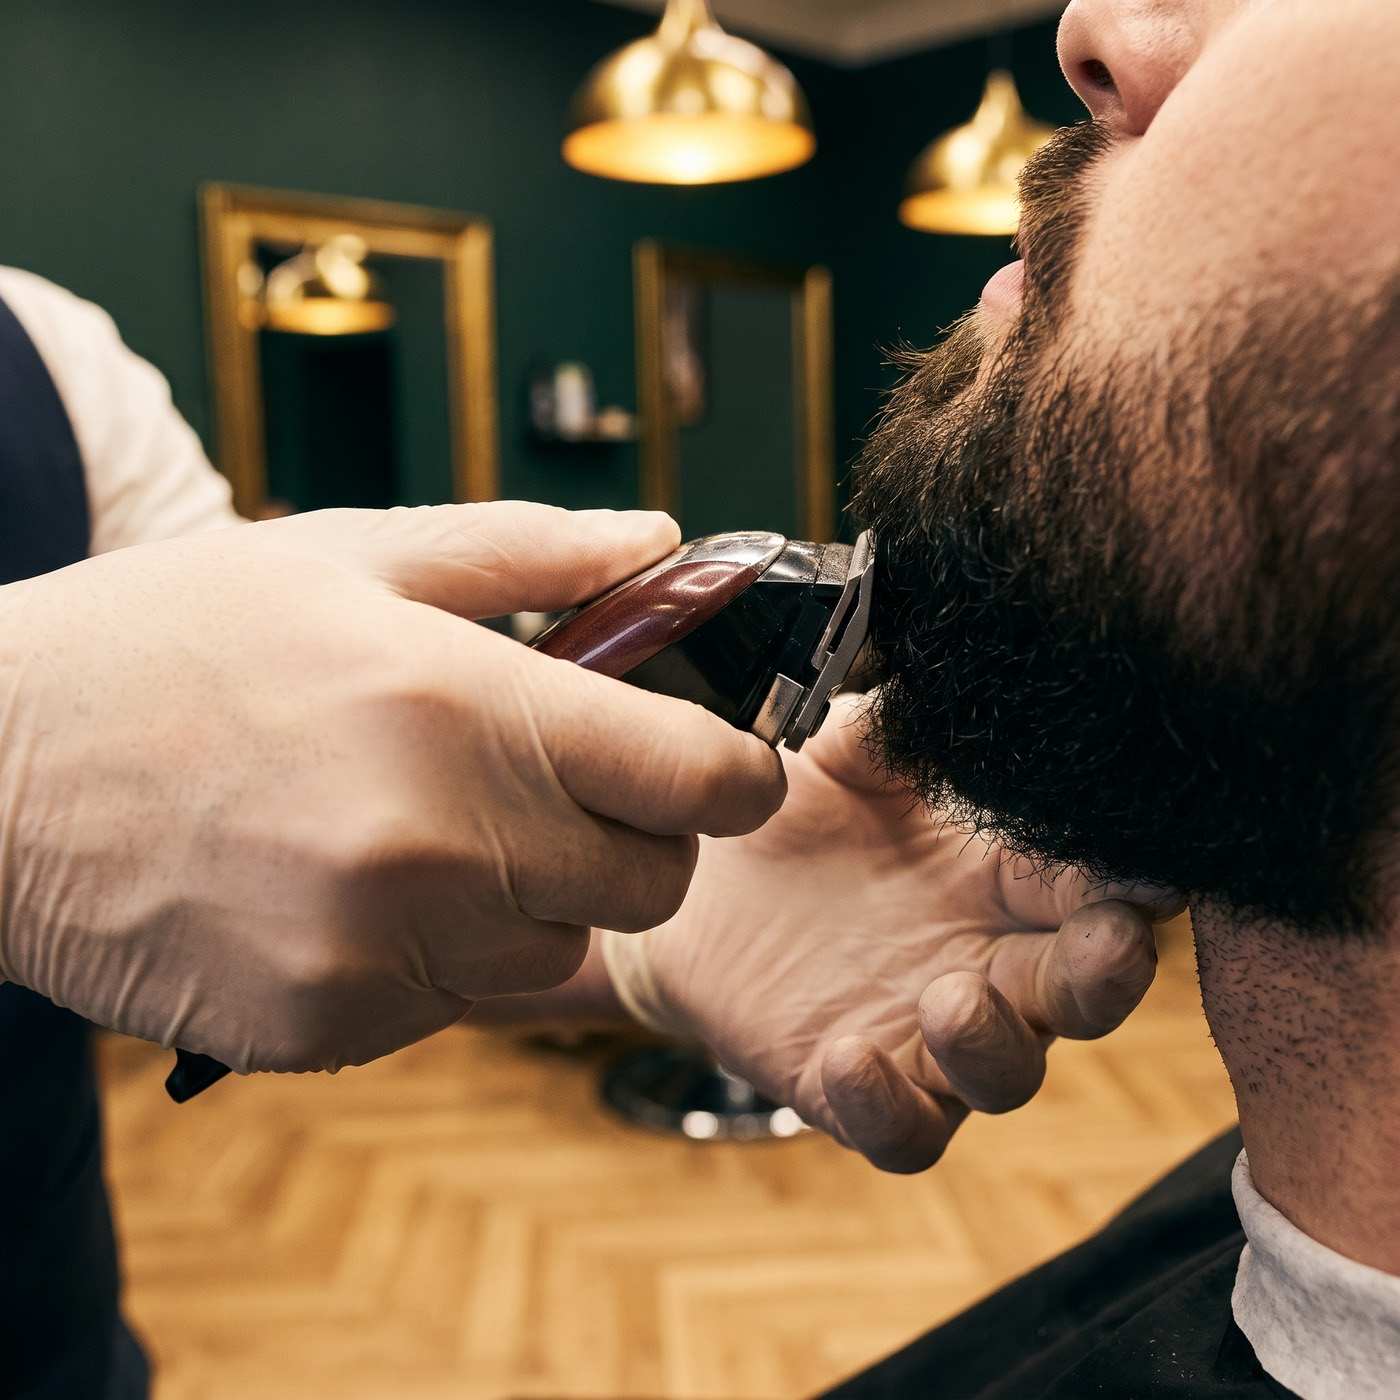
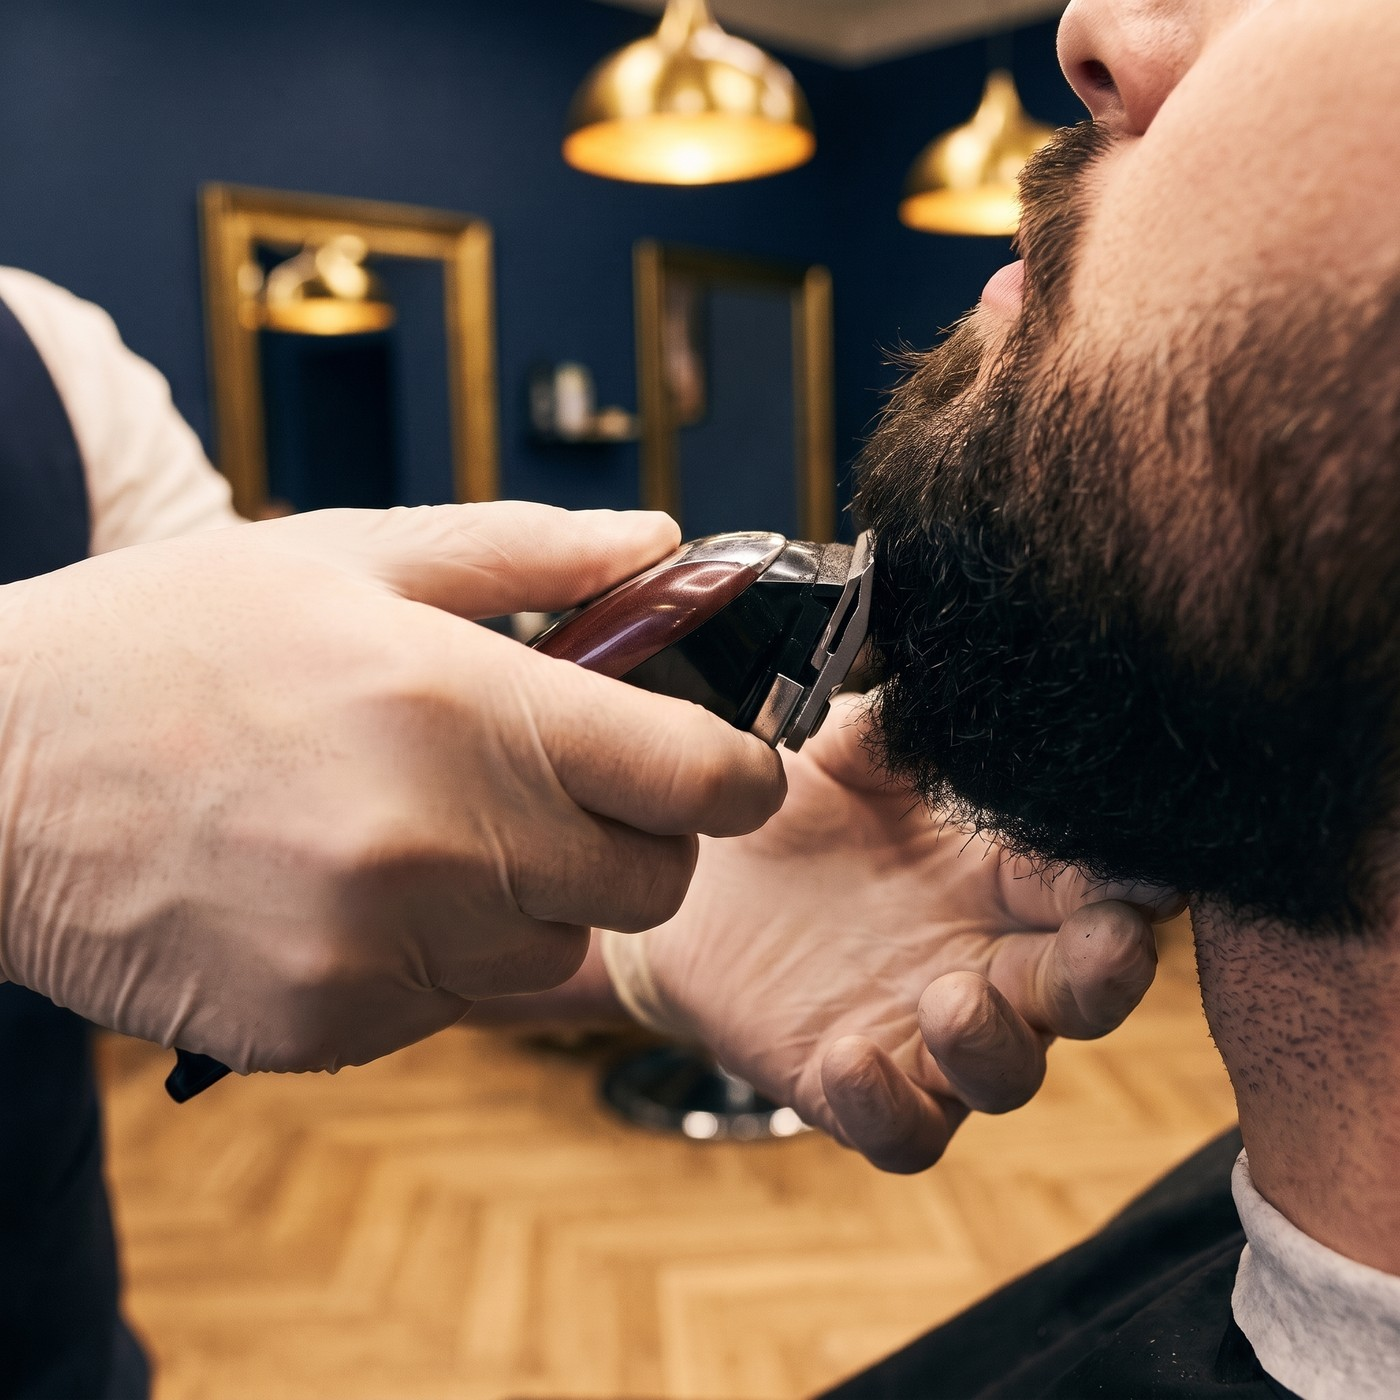
Linea 9: navy statt gruen, Menue am Handy zweizeilig

diff --git a/index.html b/index.html
@@ -44,7 +44,7 @@
   --ink:#F1ECE2; --muted:#ABA393;
   --acc:#C8A15A; --acc-deep:#B48C45; --on-acc:#121110; --acc-text:#D0AB64;
   --led:#E8CF97; --glow:rgba(200,161,90,.5);
-  --band:#1F3A2E; --band-ink:#F1ECE2; --band-line:rgba(241,236,226,.28); --band-honey:rgba(241,236,226,.07);
+  --band:#16264A; --band-ink:#F1ECE2; --band-line:rgba(241,236,226,.28); --band-honey:rgba(241,236,226,.07);
   --paper:#EFE9DD; --paper-card:#F8F4EC; --paper-ink:#17150F; --paper-muted:#5B5345; --paper-line:#D3C9B6; --paper-acc:#77571B; --paper-focus:#17150F;
   --honey:rgba(200,161,90,.16);
   --focus:#F1ECE2;
@@ -54,9 +54,9 @@
   --stage-acc:#C8A15A; --stage-acc-deep:#B48C45; --stage-on-acc:#121110;
   --stage-led:#FFF1D6; --stage-glow:rgba(255,196,110,.7);
   
-  --sw-messing-a:#C8A15A;--sw-messing-b:#1F3A2E;--sw-messing-c:#121110;
-  --sw-gruen-a:#8DBB9A;--sw-gruen-b:#2B2417;--sw-gruen-c:#121110;
-  --sw-kupfer-a:#D29467;--sw-kupfer-b:#1E2F2A;--sw-kupfer-c:#121110;
+  --sw-messing-a:#C8A15A;--sw-messing-b:#16264A;--sw-messing-c:#121110;
+  --sw-gruen-a:#8FB0DD;--sw-gruen-b:#1A2742;--sw-gruen-c:#121110;
+  --sw-kupfer-a:#D29467;--sw-kupfer-b:#14223F;--sw-kupfer-c:#121110;
   --sw-sw-a:#ECEEEF;--sw-sw-b:#8D8D93;--sw-sw-c:#111112;
 }
 :root[data-farbe="light"]{
@@ -65,7 +65,7 @@
   --ink:#16140F; --muted:#574F42;
   --acc:#8A6626; --acc-deep:#74541C; --on-acc:#FFFFFF; --acc-text:#6E5018;
   --led:#8A6626; --glow:rgba(138,102,38,.28);
-  --band:#1F3A2E; --band-ink:#F1ECE2; --band-line:rgba(241,236,226,.28);
+  --band:#16264A; --band-ink:#F1ECE2; --band-line:rgba(241,236,226,.28);
   --paper:#1C1A16; --paper-card:#25221D; --paper-ink:#F1ECE2; --paper-muted:#B2AA9A; --paper-line:#3D3830; --paper-acc:#D3AE68; --paper-focus:#F1ECE2;
   --honey:rgba(138,102,38,.16);
   --focus:#16140F;
@@ -81,25 +81,25 @@
 }
 
 :root[data-gamma="gruen"]{
-  --stage-acc:#8DBB9A;--stage-acc-deep:#77A685;--stage-on-acc:#101612;--stage-led:#E4F6EA;--stage-glow:rgba(150,220,175,.6);
-  --band:#2B2417;
+  --stage-acc:#8FB0DD;--stage-acc-deep:#7898C6;--stage-on-acc:#0F1420;--stage-led:#E4EEFA;--stage-glow:rgba(150,185,235,.6);
+  --band:#1A2742;
 }
 :root[data-gamma="gruen"]:not([data-farbe="light"]){
-  --bg:#111312;--bg2:#171A18;--raised:#1F2420;--line:#353D37;--ink:#ECF0EC;--muted:#A0AAA2;
-  --acc:#8DBB9A;--acc-deep:#77A685;--on-acc:#101612;--acc-text:#9CC6A8;--led:#BFE0C8;--glow:rgba(141,187,154,.45);
-  --paper:#E7EEE8;--paper-card:#F4F8F5;--paper-ink:#0F1712;--paper-muted:#48564C;--paper-line:#C4D2C8;--paper-acc:#2C5B40;--paper-focus:#0F1712;
-  --honey:rgba(141,187,154,.14);--focus:#ECF0EC;
+  --bg:#111418;--bg2:#171B20;--raised:#1F252D;--line:#353C47;--ink:#ECF0F5;--muted:#A0A9B5;
+  --acc:#8FB0DD;--acc-deep:#7898C6;--on-acc:#0F1420;--acc-text:#A3BFE6;--led:#C4D6F0;--glow:rgba(143,176,221,.45);
+  --paper:#E7ECF4;--paper-card:#F4F7FB;--paper-ink:#0F1520;--paper-muted:#485264;--paper-line:#C4CEDC;--paper-acc:#2C4B7A;--paper-focus:#0F1520;
+  --honey:rgba(143,176,221,.14);--focus:#ECF0F5;
 }
 :root[data-gamma="gruen"][data-farbe="light"]{
-  --bg:#EEF1EE;--bg2:#E3E8E4;--raised:#FFFFFF;--line:#C2CCC5;--ink:#101612;--muted:#4A564E;
-  --acc:#2E5E43;--acc-deep:#244B35;--on-acc:#FFFFFF;--acc-text:#2B593F;--led:#2E5E43;--glow:rgba(46,94,67,.25);
-  --paper:#13201A;--paper-card:#1A2A22;--paper-ink:#E6EFE9;--paper-muted:#A3B5A9;--paper-line:#2F4238;--paper-acc:#8DBB9A;--paper-focus:#E6EFE9;
-  --honey:rgba(46,94,67,.14);--focus:#101612;
+  --bg:#EEF1F6;--bg2:#E3E8F0;--raised:#FFFFFF;--line:#C2CAD8;--ink:#0F1420;--muted:#4A5264;
+  --acc:#2E4E7E;--acc-deep:#243E66;--on-acc:#FFFFFF;--acc-text:#2B4A78;--led:#2E4E7E;--glow:rgba(46,78,126,.25);
+  --paper:#131A28;--paper-card:#1A2236;--paper-ink:#E6ECF5;--paper-muted:#A3B0C5;--paper-line:#2F3A52;--paper-acc:#8FB0DD;--paper-focus:#E6ECF5;
+  --honey:rgba(46,78,126,.14);--focus:#0F1420;
 }
 
 :root[data-gamma="kupfer"]{
   --stage-acc:#D29467;--stage-acc-deep:#BE7F52;--stage-on-acc:#140E0B;--stage-led:#FFE9D9;--stage-glow:rgba(240,165,115,.6);
-  --band:#1E2F2A;
+  --band:#14223F;
 }
 :root[data-gamma="kupfer"]:not([data-farbe="light"]){
   --bg:#13100F;--bg2:#1A1614;--raised:#241E1B;--line:#3E3430;--ink:#F3ECE6;--muted:#ADA097;
@@ -1033,6 +1033,13 @@ a:focus-visible,button:focus-visible,[role=button]:focus-visible,[tabindex]:focu
 .lb-f{clip-path:inset(0 round 22px)!important}.lb-f img{clip-path:inset(0 round 19px)!important}
 .tk-f::before{border-radius:12px}
 @media (max-width:359px){.cta .btn{font-size:14px;padding-left:13px;padding-right:13px;gap:6px}.cta .btn svg{width:16px;height:16px}}
+</style>
+<style>
+/* 24.11 (Julia ueber Holly): Menue am Handy nicht abgeschnitten - zwei Zeilen statt seitlich scrollen */
+@media (max-width:560px){
+  .nav{flex-wrap:wrap;justify-content:center;column-gap:22px;row-gap:0;height:auto;padding-top:4px;padding-bottom:4px;overflow:visible;-webkit-mask-image:none !important;mask-image:none !important}
+  .nav a{height:36px}
+}
 </style>
 </head>
 <body>
